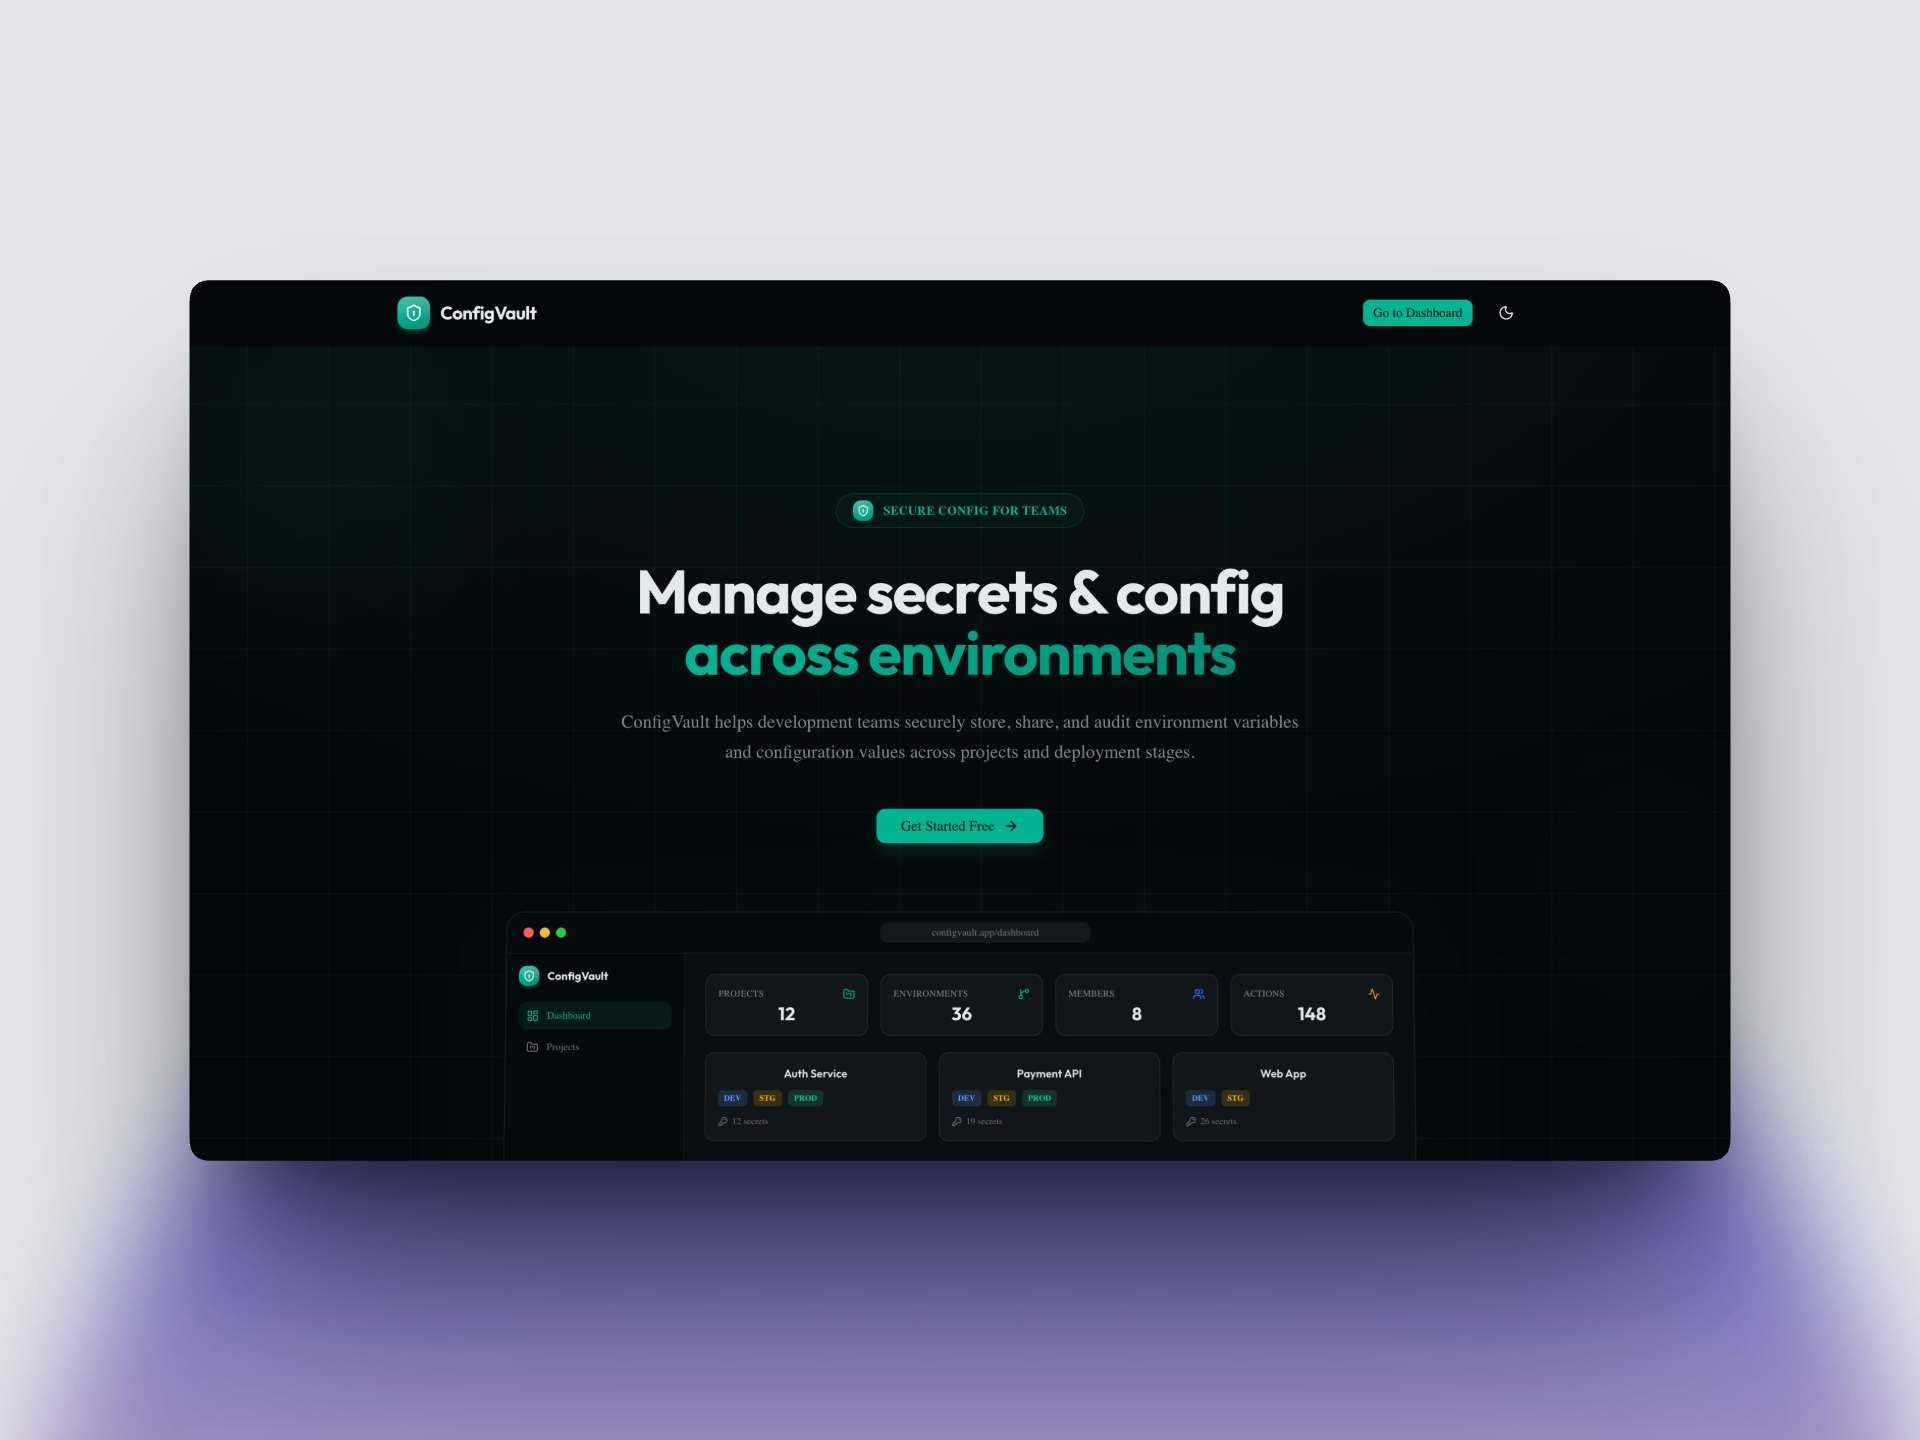
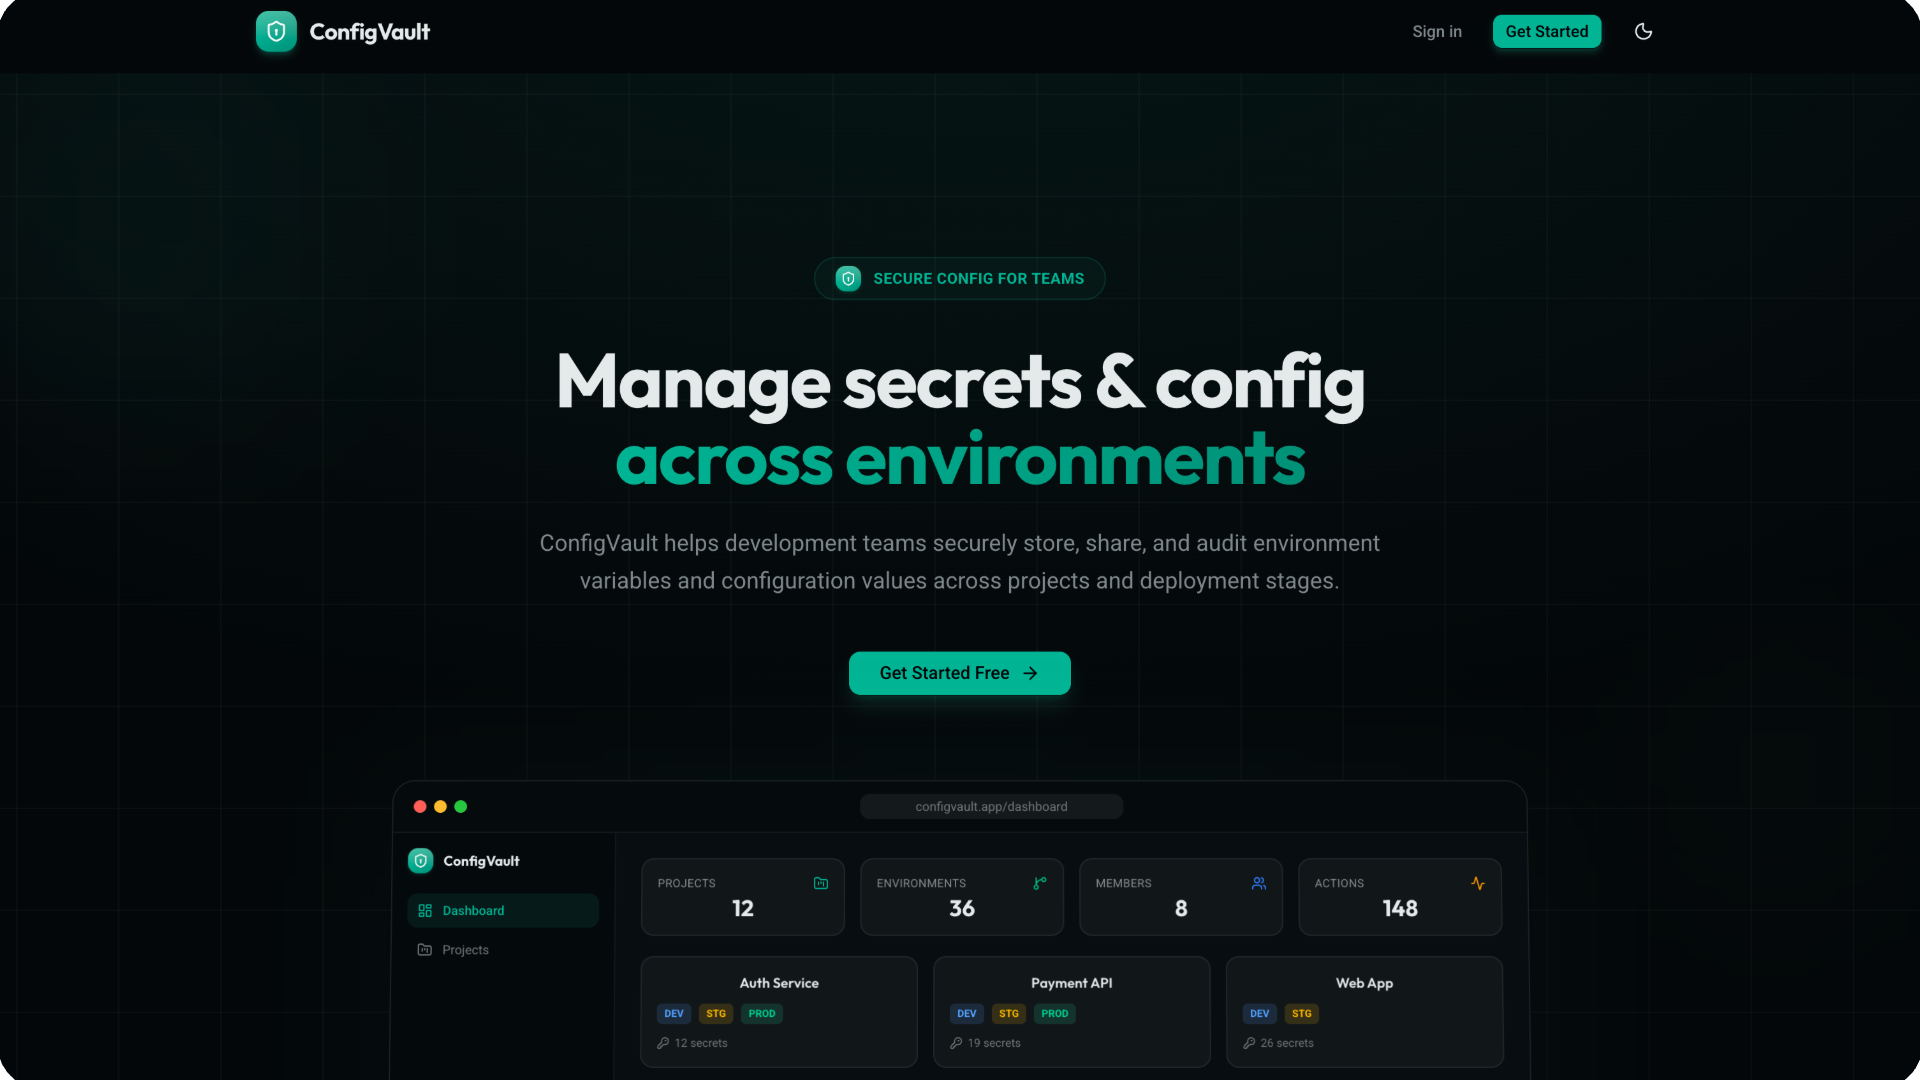
UI Polished

diff --git a/src/components/Projects.tsx b/src/components/Projects.tsx
@@ -1,12 +1,35 @@
 import { ProjectCard, type ProjectCardData } from './ProjectCard';
 import { SectionHeader } from './SectionHeader';
-import configVaultMockup from '../../mockups/ConfigVault_mockup.png';
+import configVaultMockup from '../../mockups/configvault_mockup.png';
+import encoreMockup from '../../mockups/encore_mockup.png';
 import displayPlacerMockup from '../../mockups/displayPlacer_mockups.png';
+import electricityBillingMockup from '../../mockups/electricity_mockup.png';
 import upnextMockup from '../../mockups/upnext_mockup.png';
 
 const projects: ProjectCardData[] = [
   {
     id: '01',
+    title: 'ConfigVault',
+    description:
+      'Team config vault with environments, access control, and audit logs. Encrypted secrets at rest (AES-256-GCM), multi-project organization, RBAC, time-limited share links, bulk .env import, and cookie-based auth with password reset via Resend.',
+    tags: [
+      'TYPESCRIPT',
+      'NEXT.JS',
+      'POSTGRESQL',
+      'PRISMA',
+      'AES-256-GCM',
+      'RBAC',
+      'RESEND',
+      'TAILWIND CSS',
+    ],
+    liveUrl: 'https://configvault.divyansh.space',
+    repoUrl: 'https://github.com/Divyansh2903/Config-Vault',
+    previewLabel: 'PROJECT SCREENSHOT',
+    previewImage: configVaultMockup,
+    previewDeviceFrame: true,
+  },
+  {
+    id: '02',
     title: 'UpNext',
     description:
       'A real-time collaborative music queue. Hosts spin up a session, participants join via a code, and everyone can search for tracks or add YouTube/Spotify links before voting on what plays next.',
@@ -15,9 +38,10 @@ const projects: ProjectCardData[] = [
     repoUrl: '#',
     previewLabel: 'PROJECT SCREENSHOT',
     previewImage: upnextMockup,
+    previewDeviceFrame: true,
   },
   {
-    id: '02',
+    id: '03',
     title: 'Electricity Billing System',
     description:
       'Full-stack electricity billing platform for campus-level usage management. Built with the MERN stack first, then migrated to PostgreSQL with Prisma ORM.',
@@ -25,20 +49,22 @@ const projects: ProjectCardData[] = [
     liveUrl: '#',
     repoUrl: '#',
     previewLabel: 'APP PREVIEW',
-    previewImage: configVaultMockup,
+    previewImage: electricityBillingMockup,
+    previewDeviceFrame: true,
   },
   {
-    id: '03',
+    id: '04',
     title: 'Encore Medlabs',
     description:
       'Cross-platform medical lab booking app with a companion vendor app, built using Flutter and Firebase. Patients book tests and view pricing while vendors manage orders and real-time discounts.',
     tags: ['FLUTTER', 'FIREBASE', 'CLOUD FUNCTIONS'],
-    liveUrl: '#',
     repoUrl: '#',
     previewLabel: 'INTERFACE MOCKUP',
+    previewImage: encoreMockup,
+    previewDeviceFrame: true,
   },
   {
-    id: '04',
+    id: '05',
     title: 'Display Manager',
     description:
       'A macOS menu bar app for saving and switching between display configurations with named profiles, visual layout previews, and one-click apply.',
@@ -46,6 +72,7 @@ const projects: ProjectCardData[] = [
     repoUrl: 'https://github.com/Divyansh2903/displaymanager',
     previewLabel: 'DISPLAY SETUP PREVIEW',
     previewImage: displayPlacerMockup,
+    previewDeviceFrame: true,
   },
 ];
 

diff --git a/src/components/ProjectCard.tsx b/src/components/ProjectCard.tsx
@@ -11,6 +11,8 @@ export type ProjectCardData = {
   repoUrl?: string;
   previewLabel?: string;
   previewImage?: string;
+  /** Renders a thick rounded “device” bezel when the mockup PNG has no frame baked in */
+  previewDeviceFrame?: boolean;
 };
 
 type ProjectCardProps = {
@@ -29,7 +31,7 @@ export function ProjectCard({ project, index }: ProjectCardProps) {
       initial="hidden"
       whileInView="visible"
       viewport={sectionViewport}
-      className="group grid border-t border-neutral-200/80 md:grid-cols-[minmax(0,55%)_minmax(0,45%)] dark:border-neutral-800/95"
+      className="group grid border-t border-neutral-200/80 md:grid-cols-[minmax(0,52%)_minmax(0,48%)] dark:border-neutral-800/95"
     >
       <div className="flex flex-col border-neutral-200/80 py-9 pr-8 md:border-r md:py-10 md:pr-10 dark:border-neutral-800/95">
         <div className="mb-7 flex items-center justify-between gap-4">
@@ -82,16 +84,29 @@ export function ProjectCard({ project, index }: ProjectCardProps) {
         </div>
       </div>
 
-      <div className="py-7 md:py-8 md:pl-10">
+      <div className="flex items-center py-7 md:py-8 md:pl-10">
         {project.previewImage ? (
-          <div className="aspect-video w-full overflow-hidden border border-neutral-300/80 dark:border-neutral-800/90">
-            <img
-              src={project.previewImage}
-              alt={`${project.title} preview`}
-              className="h-full w-full object-cover"
-              loading="lazy"
-            />
-          </div>
+          project.previewDeviceFrame ? (
+            <div className="isolate w-full overflow-hidden rounded-[0.95rem] bg-[#8e8f8f] p-0.5 shadow-[inset_0_0_0_1px_rgba(0,0,0,0.07),0_6px_22px_rgba(0,0,0,0.16)] md:rounded-[1.05rem] md:p-[3px] dark:shadow-[inset_0_0_0_1px_rgba(255,255,255,0.08),0_10px_34px_rgba(0,0,0,0.45)]">
+              <div className="aspect-video w-full min-h-0 overflow-hidden rounded-[calc(0.95rem-2px)] md:rounded-[calc(1.05rem-3px)]">
+                <img
+                  src={project.previewImage}
+                  alt={`${project.title} preview`}
+                  className="block h-full w-full object-cover object-center select-none"
+                  loading="lazy"
+                />
+              </div>
+            </div>
+          ) : (
+            <div className="aspect-video w-full overflow-hidden">
+              <img
+                src={project.previewImage}
+                alt={`${project.title} preview`}
+                className="h-full w-full object-cover object-center"
+                loading="lazy"
+              />
+            </div>
+          )
         ) : (
           <div className="flex aspect-video w-full items-center justify-center overflow-hidden border border-neutral-300/80 bg-[repeating-linear-gradient(to_bottom,rgba(0,0,0,0.06)_0px,rgba(0,0,0,0.06)_5px,transparent_5px,transparent_10px)] dark:border-neutral-800/90 dark:bg-[repeating-linear-gradient(to_bottom,rgba(255,255,255,0.045)_0px,rgba(255,255,255,0.045)_5px,transparent_5px,transparent_10px)]">
             <span className="font-mono text-[11px] uppercase tracking-[0.18em] text-neutral-400 dark:text-neutral-500">

diff --git a/src/components/Hero.tsx b/src/components/Hero.tsx
@@ -19,8 +19,12 @@ export function Hero() {
         divyansh singh
       </h1>
 
+      <p className="mt-4 max-w-xl font-mono text-[11px] leading-relaxed tracking-[0.08em] text-neutral-500 sm:mt-5 dark:text-neutral-400">
+        Full stack and mobile developer
+      </p>
+
       <nav
-        className="mt-8 font-mono text-[11px] uppercase tracking-[0.14em] text-foreground"
+        className="mt-6 font-mono text-[11px] uppercase tracking-[0.14em] text-foreground sm:mt-8"
         aria-label="Contact links and resume"
       >
         <motion.ul

diff --git a/src/components/About.tsx b/src/components/About.tsx
@@ -4,7 +4,7 @@ import { simpleIconSrc } from '../lib/simpleIcon';
 import { SectionHeader } from './SectionHeader';
 
 const INTRO =
-  "Currently in 3rd Year pursuing BSc from BITS Pilani (Digital). I build full-stack and mobile applications with a focus on performance and real-world usability. I've worked on production apps, reduced load times significantly, and built systems used in real environments.";
+  "Currently in my 3rd year pursuing a BSc in Computer Science from BITS Pilani (Digital). I build full-stack and mobile applications with a focus on performance, scalability, and real-world usability. I've worked on production apps, shipped features, and improved systems used by real users.";
 
 type Pill = { slug: string; label: string };
 